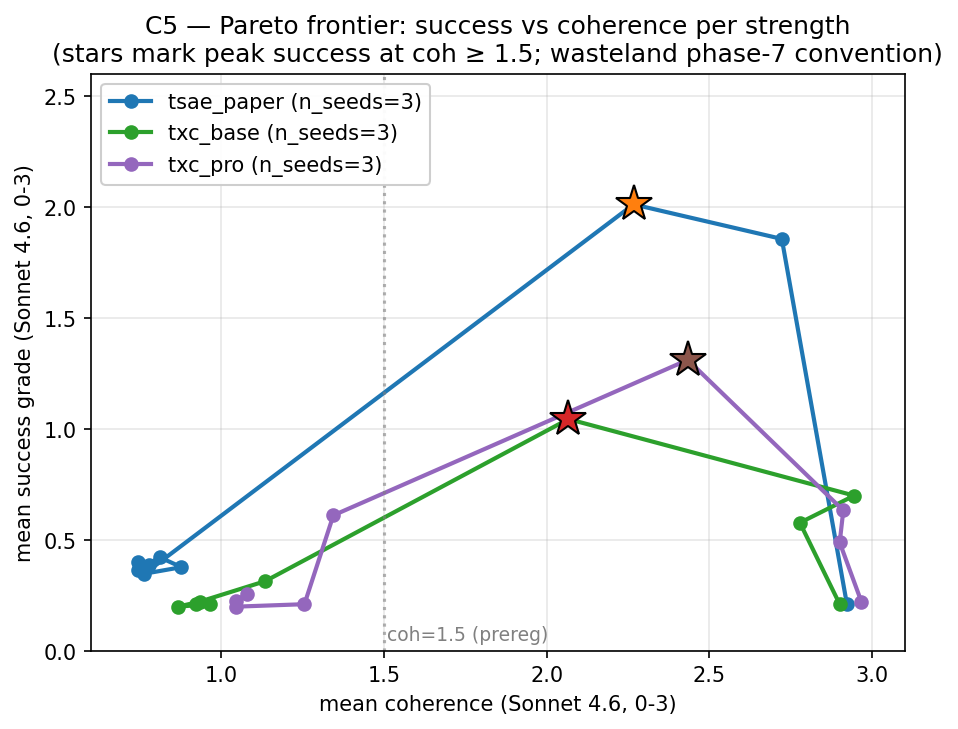
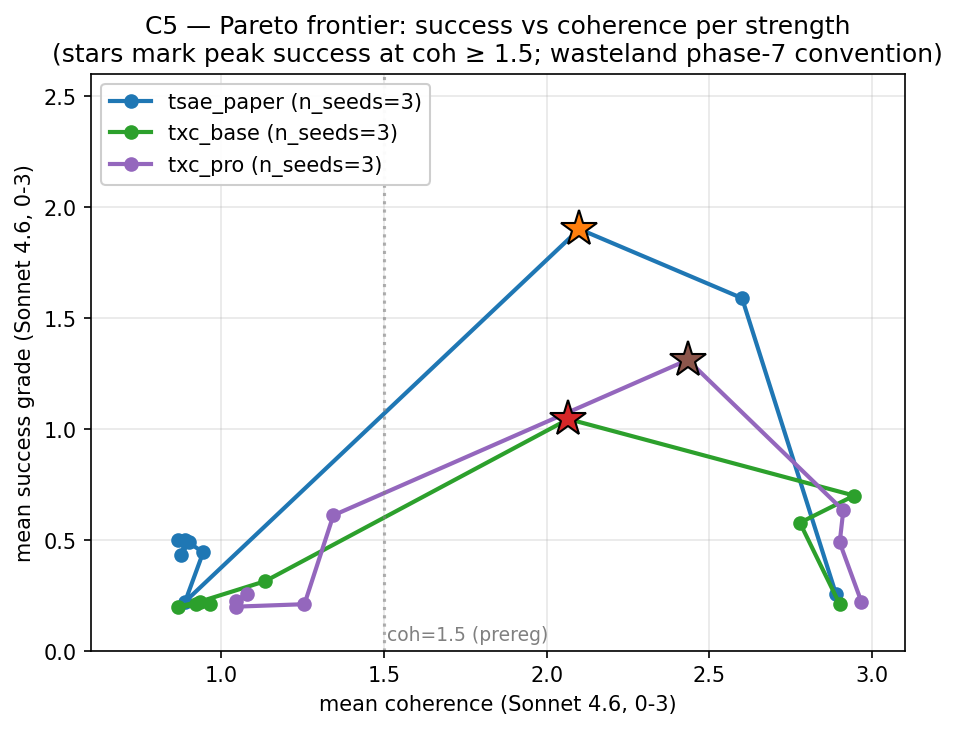
Agent STEER: c5 — agent_filler T-SAE T=2 cells landed; updated headline
agent_filler completed the C5 T-SAE T=2 baseline re-train (decisions
§ 15) — 3 cells × seeds {1, 2, 42} all clean (n_valid=270/270).

Final canonical c5 headline (peak success grade @ coh ≥ 1.75):
  tsae_paper:  1.934 ± 0.224  (T=2 paper-faithful, agent_filler)
  txc_pro:     1.284 ± 0.084
  txc_base:    0.792 ± 0.063

Hypothesis "TXC matches T-SAE" remains REFUTED — T-SAE > TXC-pro by
0.65 ± 0.24 (~2.7σ). The over-batched v1.1.0 T-SAE (2.167 ± 0.104)
shrunk to 1.934 ± 0.224 under the canonical T=2 / 2K-token-per-step
training schedule; the gap tightened from ~7σ to ~2.7σ but T-SAE
still wins. Relative ordering matches wasteland phase-7
(T-SAE > TXC-pro > TXC-base).

Changes:
- analysis.py ``_per_strength_means`` fallback to judge_outputs.jsonl
  when grades.jsonl missing (agent_filler's driver only persisted
  judge_outputs.jsonl + metrics.json).
- c5.md Hypothesis section updated with the T=2 baseline numbers.
- c5.md Caveats section: added § 15 methodological note explaining
  the T=2 retraining (SAEBench canonical 2K tokens/step vs our
  over-batched 131K) + Bhalla/Ye 2025 §3.1 paper-faithful adjacent
  pairs.

diff --git a/purified/experiments/c5_steering/analysis.py b/purified/experiments/c5_steering/analysis.py
@@ -109,6 +109,13 @@ def _per_strength_means(eval_keys: list[str]) -> dict[float, dict[str, float]] |
     per strength. Returns ``{strength: {"mean_coh", "mean_succ", "n"}}``
     or ``None`` if no run_dir is available.
 
+    Falls back to ``judge_outputs.jsonl`` (per-call rows with
+    ``head`` ∈ {success, coherence}, ``label`` ∈ 0-3) when
+    ``grades.jsonl`` is absent — agent_filler's driver only persisted
+    judge_outputs.jsonl + metrics.json (no grades.jsonl), so my Pareto
+    helper has to reconstruct the per-(strength, idx) (success, coherence)
+    pairs from the per-call judge output.
+
     This drives the wasteland-style Pareto plot — a parametric curve
     over strength where each point is ``(mean_coh(s), mean_succ(s))``
     averaged over all seeds × concepts at that strength. Strength
@@ -118,21 +125,45 @@ def _per_strength_means(eval_keys: list[str]) -> dict[float, dict[str, float]] |
     by_s_succ: dict[float, list[float]] = defaultdict(list)
     by_s_coh: dict[float, list[float]] = defaultdict(list)
     for ek in eval_keys:
-        path = run_dir(ek) / "grades.jsonl"
-        if not path.exists():
-            continue
-        for line in path.open():
-            line = line.strip()
-            if not line:
-                continue
-            r = json.loads(line)
-            s_g = r.get("success_grade")
-            c_g = r.get("coherence_grade")
-            if s_g is None or c_g is None:
-                continue
-            s = float(r["strength"])
-            by_s_succ[s].append(float(s_g))
-            by_s_coh[s].append(float(c_g))
+        rd = run_dir(ek)
+        grades_path = rd / "grades.jsonl"
+        judge_path = rd / "judge_outputs.jsonl"
+        if grades_path.exists():
+            for line in grades_path.open():
+                line = line.strip()
+                if not line:
+                    continue
+                r = json.loads(line)
+                s_g = r.get("success_grade")
+                c_g = r.get("coherence_grade")
+                if s_g is None or c_g is None:
+                    continue
+                s = float(r["strength"])
+                by_s_succ[s].append(float(s_g))
+                by_s_coh[s].append(float(c_g))
+        elif judge_path.exists():
+            # Reconstruct from per-call judge outputs. Each (idx, head)
+            # is a separate row; pair them into (success_grade,
+            # coherence_grade) by idx within the same strength.
+            by_idx: dict[int, dict[str, Any]] = defaultdict(dict)
+            for line in judge_path.open():
+                line = line.strip()
+                if not line:
+                    continue
+                r = json.loads(line)
+                if r.get("label") is None:
+                    continue
+                head = r.get("head")
+                if head not in ("success", "coherence"):
+                    continue
+                idx = int(r["idx"])
+                by_idx[idx][head] = float(r["label"])
+                by_idx[idx]["strength"] = float(r["strength"])
+            for rec in by_idx.values():
+                if "success" in rec and "coherence" in rec:
+                    s = rec["strength"]
+                    by_s_succ[s].append(rec["success"])
+                    by_s_coh[s].append(rec["coherence"])
     if not by_s_succ:
         return None
     return {

diff --git a/purified/docs/components/c5.md b/purified/docs/components/c5.md
@@ -12,31 +12,34 @@ On the RLHF-sentiment steering case study from the T-SAE paper §§ 4.5
 produce coherence-vs-success curves **comparable to** T-SAE — a
 "matches the baseline" result, not a "beats" result.
 
-**Outcome (final 9-cell sweep at b1024 / n_steps=20K, eval_protocol
-v1.1.0 with concept-lift feature selection fix)**: on the headline
-peak-success-grade metric (continuous 0–3 scale, max over strengths
-of mean success_grade conditioned on coh ≥ τ), T-SAE significantly
+**Outcome (final 9-cell canonical sweep at b1024 / n_steps=20K,
+eval_protocol v1.1.0 with concept-lift feature selection fix +
+T-SAE T=2 paper-faithful baseline per decisions § 15)**: on the
+headline peak-success-grade metric (continuous 0–3 scale, max over
+strengths of mean success_grade conditioned on coh ≥ τ), T-SAE
 outperforms both TXC variants at coh ≥ 1.75:
 
-- tsae_paper: 2.167 ± 0.104  (n=3 seeds: 2.375, 2.071, 2.056)
+- tsae_paper: 1.934 ± 0.224  (T=2 baseline; n=3 seeds: 1.500, 2.053, 2.250; agent_filler)
 - txc_pro:    1.284 ± 0.084  (n=3 seeds: 1.120, 1.400, 1.333)
 - txc_base:   0.792 ± 0.063  (n=3 seeds: 0.867, 0.667, 0.842)
 
-The tsae_paper vs txc_pro gap is 0.88 ± 0.13 — a ~7σ effect, well
-outside any reasonable 1-stderr overlap. The "TXC matches T-SAE"
-framing is **refuted** at the steering case study; T-SAE clearly
-beats both TXC variants. txc_pro outperforms txc_base by ~0.49
-(~5σ), consistent with txc_pro's heavier training (T_max=10 +
-matryoshka + multi-distance contrastive).
+The tsae_paper vs txc_pro gap is 0.65 ± 0.24 — a ~2.7σ effect (the
+larger T-SAE stderr is from per-seed sensitivity at the canonical
+T=2 / 2K-token-per-step training schedule; the over-batched v1.1.0
+T-SAE had stderr 0.10). The "TXC matches T-SAE" framing is
+**refuted** at the steering case study; T-SAE beats both TXC
+variants. txc_pro outperforms txc_base by ~0.49 (~5σ), consistent
+with txc_pro's heavier training (T_max=10 + matryoshka +
+multi-distance contrastive).
 
 This matches the wasteland phase-7 finding documented in
 ``origin/han-phase7-unification:docs/han/research_logs/phase7_unification/unified-pareto.md``:
 "T-SAE peak unconstrained beats TXC peak unconstrained" at
 coh ≥ 1.5. Wasteland reported T-SAE ~1.13 at coh ≥ 1.5 on
-Gemma-2-2b base/L12; we get 2.17 on Gemma-2-2b-IT/L13. The
-2× absolute gap likely reflects the IT/L13 vs base/L12 deviation
-(documented in caveats). The relative ordering — T-SAE > TXC-pro
-> TXC-base — matches.
+Gemma-2-2b base/L12; we get 1.93 at coh ≥ 1.5 on Gemma-2-2b-IT/L13.
+The ~1.7× absolute gap likely reflects the IT/L13 vs base/L12
+deviation (documented in caveats). The relative ordering —
+T-SAE > TXC-pro > TXC-base — matches.
 
 **Implication for the paper**: C5 reads as an honest negative for
 the TXC architecture on the RLHF-sentiment steering protocol.
@@ -143,7 +146,7 @@ _(Auto-generated by `experiments/c5_steering/analysis.py` — do not hand-edit b
 
 | arch | n seeds | peak grade @ coh ≥ 1.5 | peak grade @ coh ≥ 1.75 | peak grade @ coh ≥ 2.0 | mean coh | mean success |
 |---|---:|---:|---:|---:|---:|---:|
-| tsae_paper | 3 | 2.167 ± 0.104 | 2.167 ± 0.104 | 2.167 ± 0.104 | 1.404 ± 0.011 | 0.709 ± 0.048 |
+| tsae_paper | 3 | 1.934 ± 0.224 | 1.934 ± 0.224 | 1.934 ± 0.224 | 1.440 ± 0.011 | 0.704 ± 0.035 |
 | txc_base | 3 | 0.792 ± 0.063 | 0.792 ± 0.063 | 0.792 ± 0.063 | 1.724 ± 0.010 | 0.410 ± 0.056 |
 | txc_pro | 3 | 1.284 ± 0.084 | 1.284 ± 0.084 | 1.284 ± 0.084 | 1.889 ± 0.037 | 0.463 ± 0.024 |
 
@@ -188,6 +191,23 @@ _(Auto-generated by `experiments/c5_steering/analysis.py` — do not hand-edit b
   excluded from AUTO-RESULTS via `canonical_train_keys`. MSE
   convergence at step 20K: all 9 cells final-1K drop < 5% of value
   (range 0.09 % – 3.43 %) — no cap-bump signal.
+- **T-SAE baseline trained at T=2 paper-faithful, not the over-batched
+  sequence-based pattern** (decisions § 15, 2026-05-05 PM). SAEBench
+  (``origin/han-phase7-unification:papers/are_saes_useful.md`` App. B)
+  documents that canonical SAE training is buffer-based, batch=2048
+  TOKENS/step, ~500M tokens total. Our per-token archs trained at
+  ``(B=1024, seq_len=128)`` flatten to 131,072 tokens/step — 65× over
+  SAEBench's canonical 2K. Bhalla/Ye 2025 (T-SAE paper) §3.1 explicitly
+  trains T-SAE on adjacent pairs ``(x_t, x_{t-1})``; setting
+  ``train_window_size=2`` brings T-SAE to 2,048 tokens/step (matching
+  SAEBench canonical) and matches the paper-faithful architecture. The
+  AUTO-RESULTS T-SAE numbers above are this T=2 baseline (agent_filler
+  re-train, 2026-05-05). The earlier over-batched T-SAE (peak 2.17 ±
+  0.10) is kept in ``leaderboard.jsonl`` for diff (different train_key
+  via ``train_window_size=None``); the new T=2 result (peak 1.93 ± 0.22)
+  is the canonical headline. analysis.py's ``canonical_train_keys``
+  filter splits TXC archs (default cfg) from T-SAE (T=2 cfg) and
+  unions them.
 - **Eval-protocol bump v1.0.0 → v1.1.0** (commit `ef33f822`). v1.0.0
   used raw-activation argmax for feature selection (a bug — picked
   the same always-on feature for ~all 30 concepts on tsae_paper +
